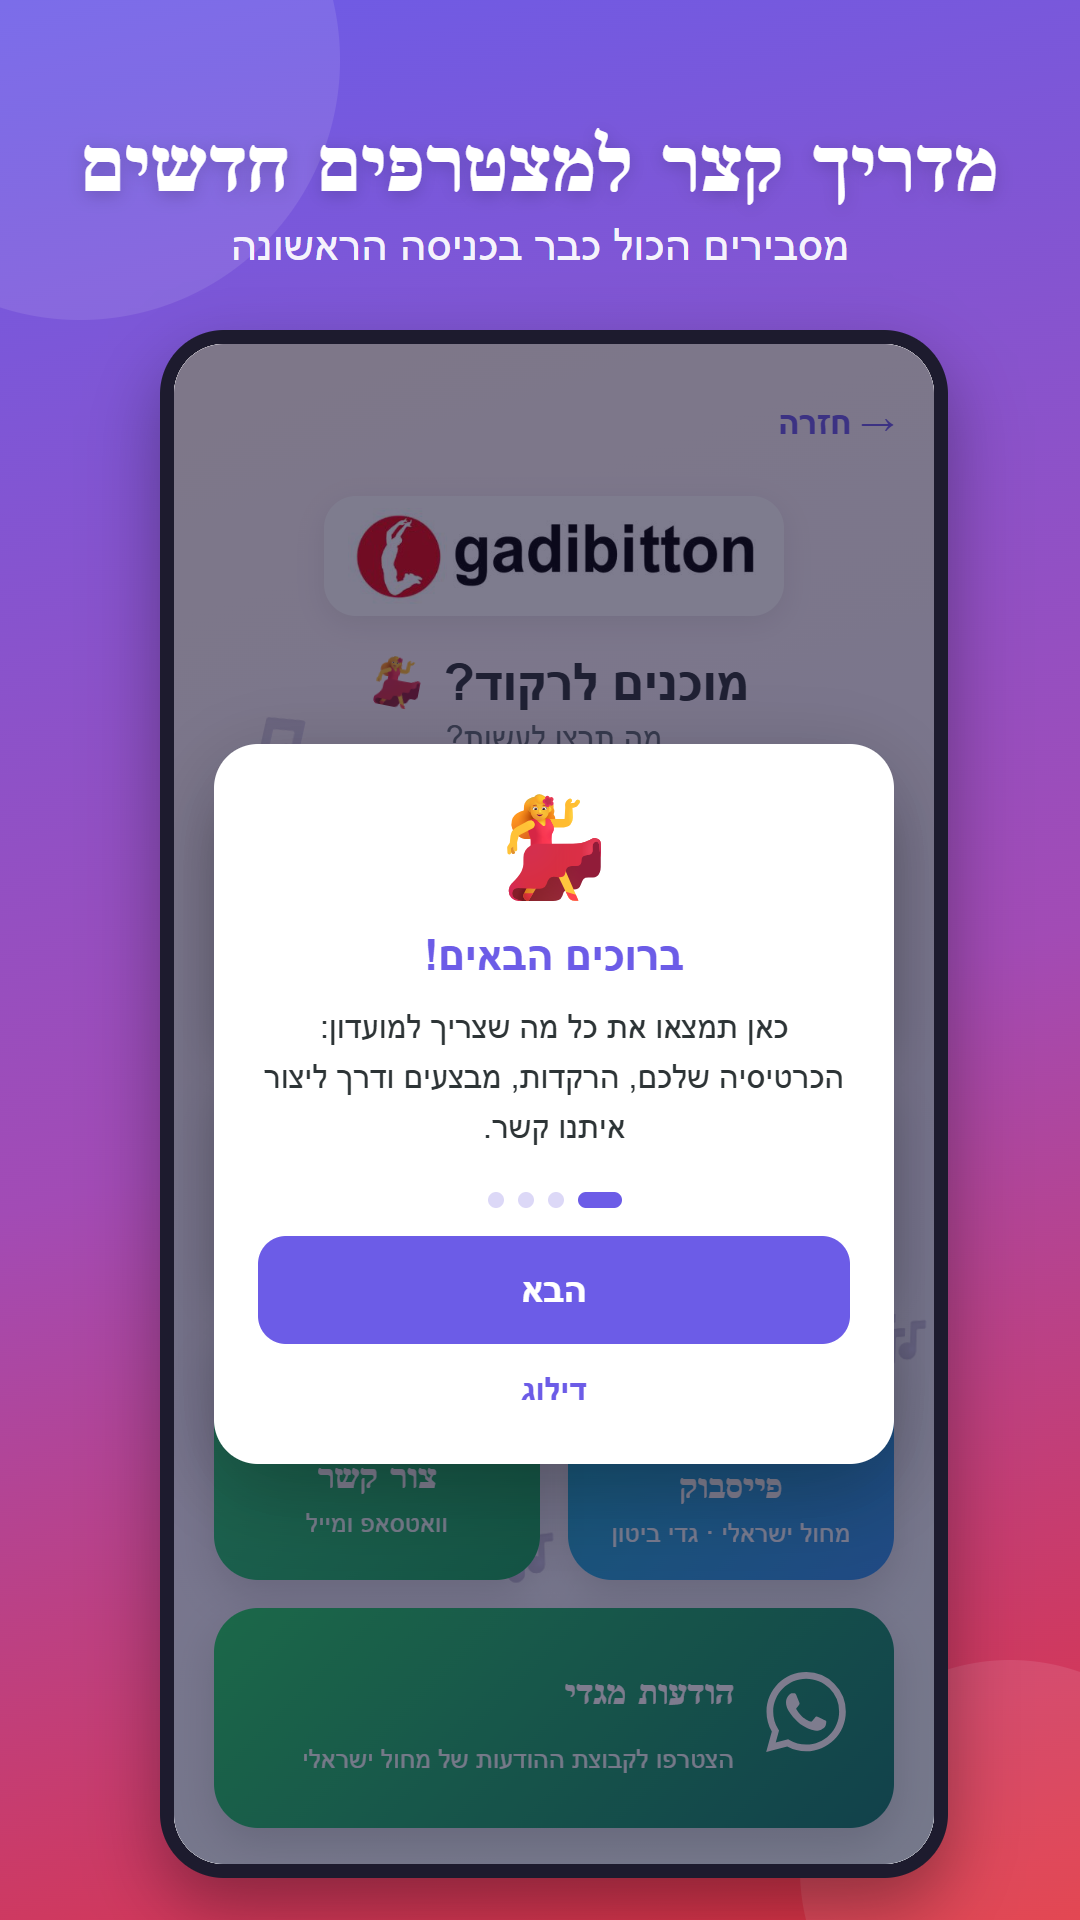
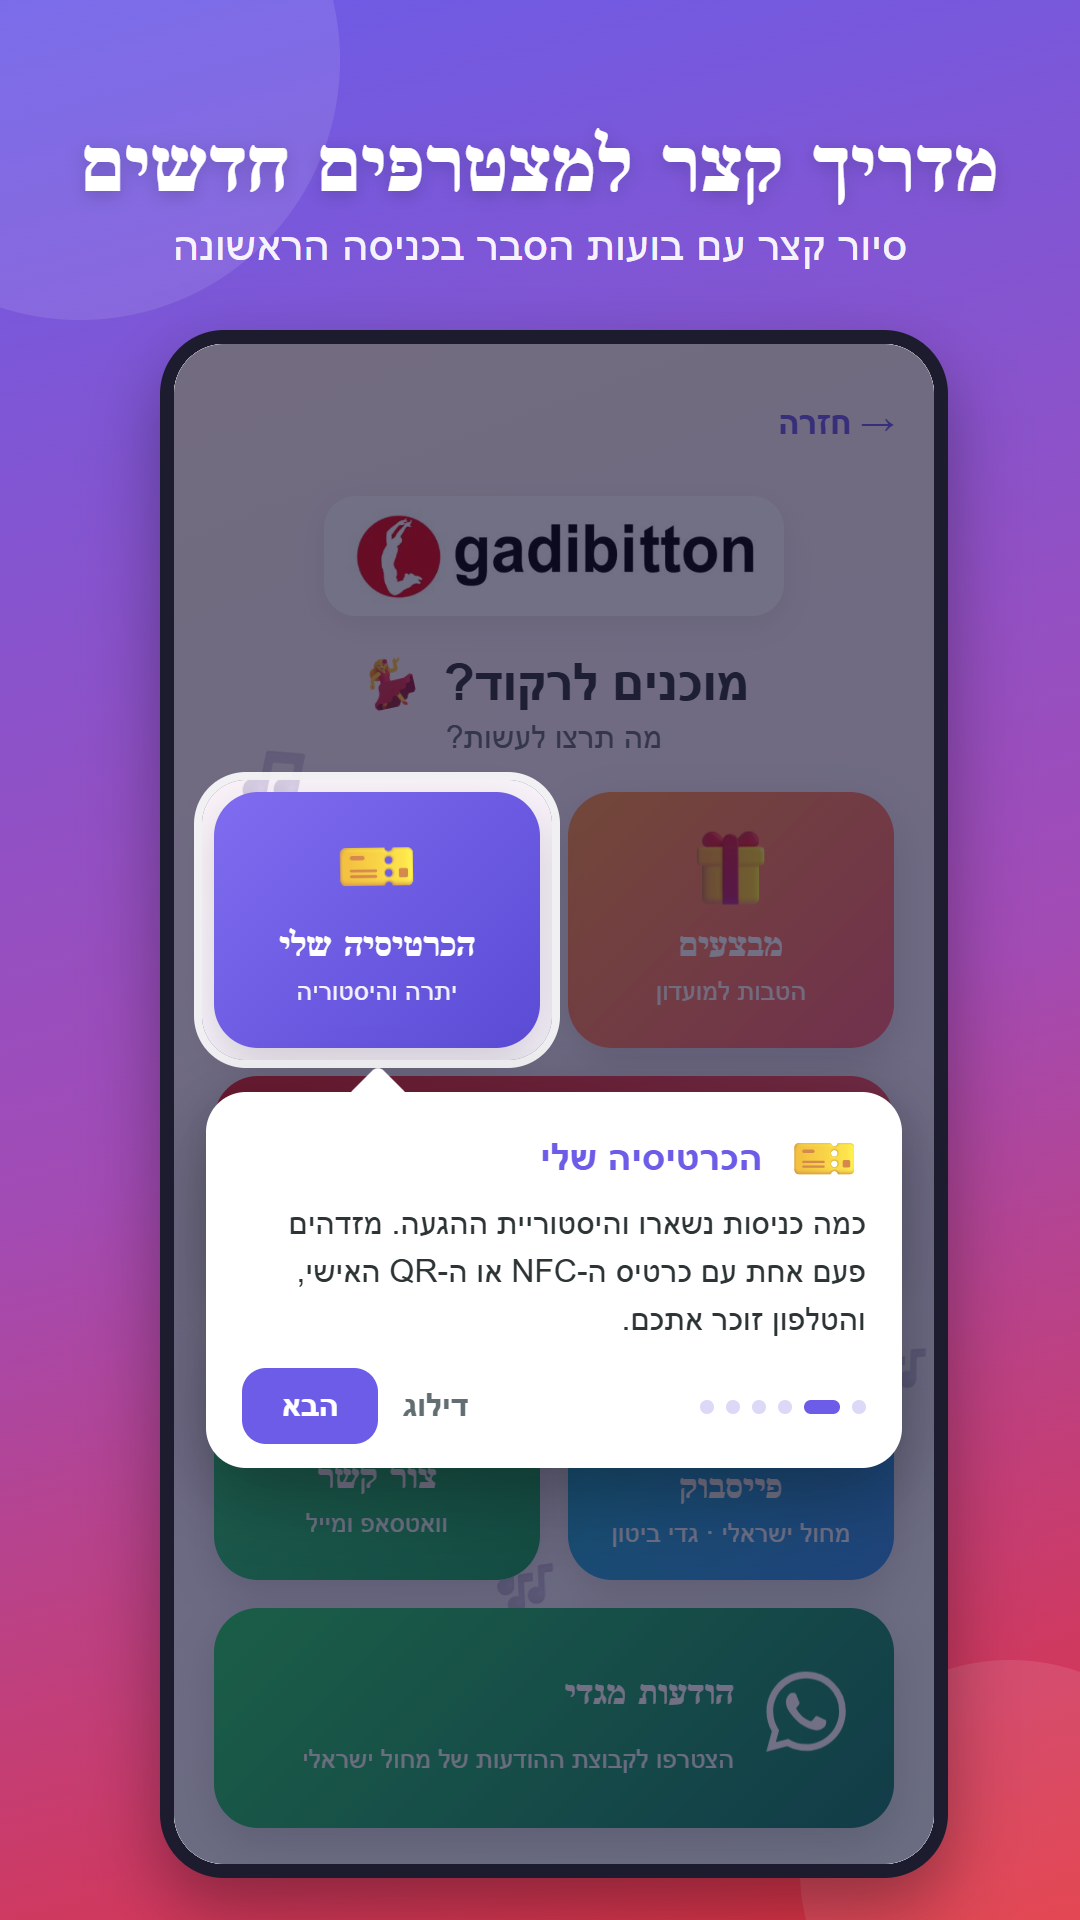
Store screenshot 06: show the bubble walkthrough on a pointing step

diff --git a/store-assets/play-screens/frame.html b/store-assets/play-screens/frame.html
@@ -23,7 +23,7 @@
   f.addEventListener('load', () => {
     const act = q.get('act');
     if (!act) return;
-    setTimeout(() => { try { const d = f.contentDocument; d.getElementById(act).click(); } catch (e) {} }, 800);
+    setTimeout(() => { try { const d = f.contentDocument; d.getElementById(act).click(); const n = +(q.get('next') || 0); for (let i = 0; i < n; i++) setTimeout(() => d.getElementById('onb-next').click(), 400 * (i + 1)); } catch (e) {} }, 800);
   });
   f.src = q.get('u');
 </script>
